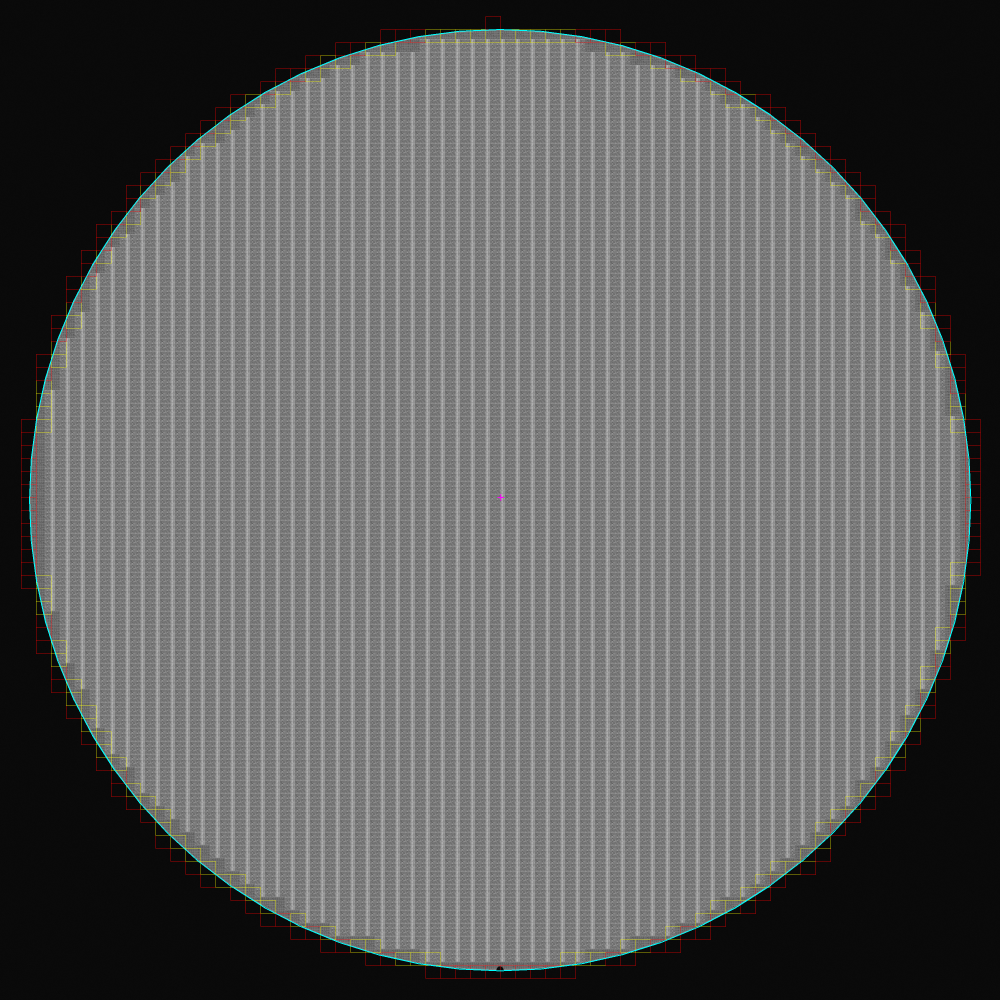
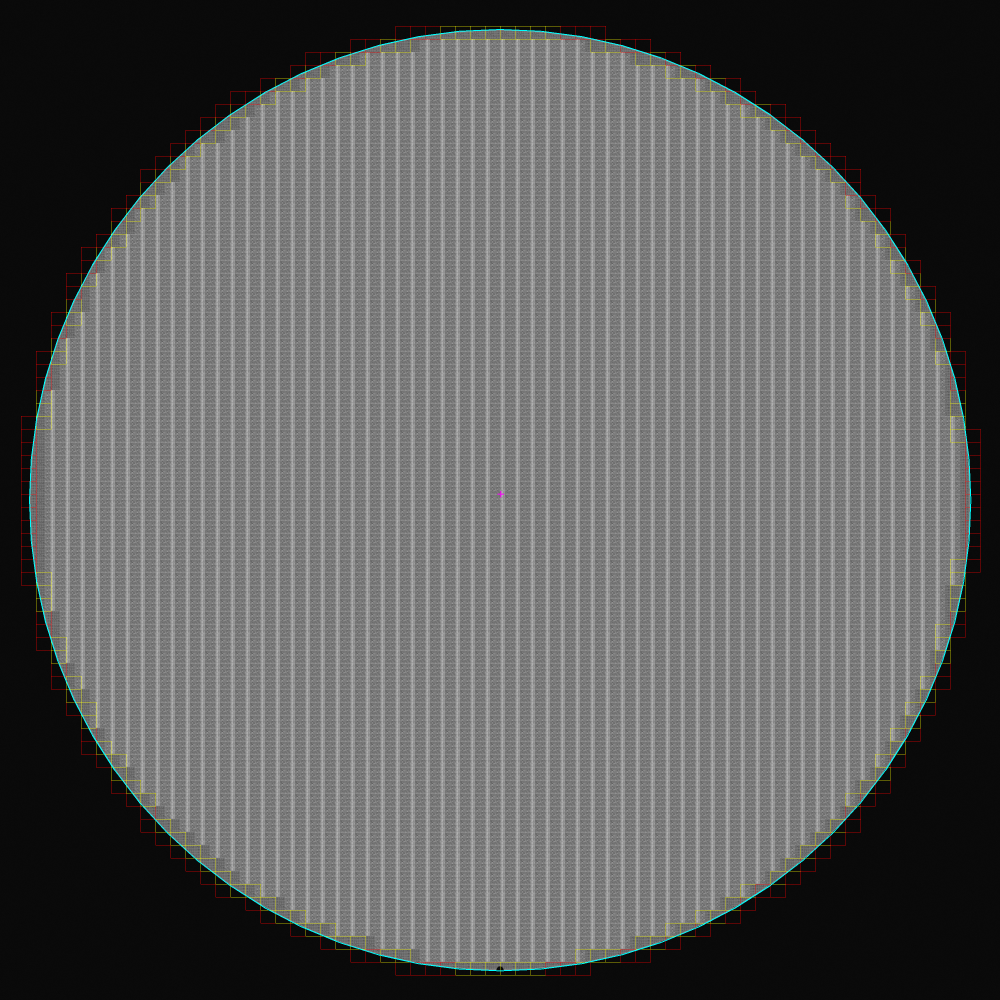
validate thin cross grid against vertical noise

diff --git a/USE_LATEST/use_gray_wafer_die_particle.py b/USE_LATEST/use_gray_wafer_die_particle.py
@@ -565,6 +565,50 @@ def _discard_subpitch_bands(bands: List[Tuple[float, int, int, float]],
     return [band for index, band in enumerate(ordered) if index not in reject]
 
 
+def _periodic_band_support(bands: List[Tuple[float, int, int, float]],
+                           position: float, pitch: float) -> float:
+    """Measure whether a candidate belongs to a repeating grid phase.
+
+    An isolated narrow vertical noise line can pass the width filter.  Unlike a
+    real street, it does not have similarly thin bands at ``position +/- n*pitch``.
+    The returned 0..1 support is therefore used as a second guard after width.
+    """
+    if len(bands) < 2 or pitch <= 0:
+        return 0.0
+    coords = [float(band[0]) for band in bands]
+    lower, upper = min(coords), max(coords)
+    tolerance = max(2.0, float(pitch) * 0.14)
+    matched = 0
+    expected = 0
+    step = 1
+    while position - step * pitch >= lower - tolerance:
+        expected += 1
+        if min(abs(coord - (position - step * pitch)) for coord in coords) <= tolerance:
+            matched += 1
+        step += 1
+    step = 1
+    while position + step * pitch <= upper + tolerance:
+        expected += 1
+        if min(abs(coord - (position + step * pitch)) for coord in coords) <= tolerance:
+            matched += 1
+        step += 1
+    return float(matched / expected) if expected else 0.0
+
+
+def _keep_periodic_candidates(bands: List[Tuple[float, int, int, float]],
+                              pitch: float) -> List[Tuple[float, int, int, float]]:
+    """Keep grid-phase candidates and reject isolated thin noise when possible."""
+    if len(bands) < 3:
+        return bands
+    scored = [(band, _periodic_band_support(bands, band[0], pitch)) for band in bands]
+    best = max(score for _, score in scored)
+    # Do not make a weak image fail solely because periodic support is poor;
+    # only remove candidates when another phase is clearly better.
+    if best < 0.35:
+        return bands
+    return [band for band, score in scored if score >= max(0.35, best * 0.70)]
+
+
 def _select_cross_origin(x_bands: List[Tuple[float, int, int, float]],
                          y_bands: List[Tuple[float, int, int, float]],
                          wafer_cx: float, wafer_cy: float,
@@ -577,8 +621,10 @@ def _select_cross_origin(x_bands: List[Tuple[float, int, int, float]],
     # but distant defect/noise intersection from winning only by projection strength.
     near_x = [band for band in x_bands if abs(band[0] - wafer_cx) <= max(2.0, pitch_x * 1.15)]
     near_y = [band for band in y_bands if abs(band[0] - wafer_cy) <= max(2.0, pitch_y * 1.15)]
-    candidate_x = near_x if near_x else x_bands
-    candidate_y = near_y if near_y else y_bands
+    periodic_x = _keep_periodic_candidates(x_bands, pitch_x)
+    periodic_y = _keep_periodic_candidates(y_bands, pitch_y)
+    candidate_x = [band for band in periodic_x if band in near_x] or periodic_x
+    candidate_y = [band for band in periodic_y if band in near_y] or periodic_y
     # Directional opening can shift a physical 1px crossing by one pixel in each
     # direction. Pick axes independently after width filtering; their geometric
     # intersection is the grid corner and is more stable than exact mask overlap.
@@ -639,14 +685,21 @@ def detect_thin_cross_grid(image: np.ndarray,
         thin_mask, cv2.MORPH_OPEN,
         cv2.getStructuringElement(cv2.MORPH_RECT, (line_length, 1)))
     x_profile = _smooth_projection(vertical.mean(axis=0), 3)
-    # A wide vertical-noise stripe can break a horizontal opening at its crossing.
-    # The row ridge projection keeps the horizontal cross positions continuous.
-    y_profile = _smooth_projection(ridge.mean(axis=1), 3)
+    # Use directional horizontal runs for y positions as well.  The raw ridge
+    # projection also contains fine die texture (often 8-10px apart), which can
+    # falsely become a horizontal cross even though it is not a grid street.
+    y_profile = _smooth_projection(horizontal.mean(axis=1), 3)
     x_bands = _find_projection_bands(x_profile, x0, 1, 0.10, 0.35, 0.1)
     y_bands = _find_projection_bands(y_profile, y0, 1, 0.10, 0.35, 0.1)
     x_bands = [band for band in x_bands if band[2] - band[1] <= thin_width_max]
     # The 3px projection smoothing makes a physical 1-2px horizontal ridge appear up to 6px.
     y_bands = [band for band in y_bands if band[2] - band[1] <= thin_width_max + 2]
+    if len(y_bands) < 2:
+        # Keep a weak-signal fallback, but only when no directional horizontal
+        # streets survived.  Normal cross detection must not use texture rows.
+        y_profile = _smooth_projection(ridge.mean(axis=1), 3)
+        y_bands = _find_projection_bands(y_profile, y0, 1, 0.10, 0.35, 0.1)
+        y_bands = [band for band in y_bands if band[2] - band[1] <= thin_width_max + 2]
     x_bands = _discard_subpitch_bands(x_bands, min_pitch)
     if len(x_bands) < 2 or len(y_bands) < 2:
         raise RuntimeError(

diff --git a/TEST_3000_GRAY/generate_edge_crossing_validation.py b/TEST_3000_GRAY/generate_edge_crossing_validation.py
@@ -18,6 +18,7 @@ SOURCE_JPEG = Path("E:/mirero/Claude_V5") / "\uc6d0\ubcf8" / "Claude_V5" / "TEST
 OUT_DIR = Path(__file__).resolve().parent
 
 sys.path.insert(0, str(REPO_ROOT))
+import USE_LATEST.use_gray_wafer_die_particle as grid_module  # noqa: E402
 from USE_LATEST.use_gray_wafer_die_particle import build_die_map  # noqa: E402
 
 
@@ -42,6 +43,52 @@ def _draw_circle_and_corner(canvas: np.ndarray, dm: object) -> None:
 def _write_preview(path: Path, image: np.ndarray) -> None:
     preview = cv2.resize(image, (1000, 1000), interpolation=cv2.INTER_AREA)
     cv2.imwrite(str(path), preview)
+
+
+def _write_cross_evidence(gray: np.ndarray, dm: object) -> None:
+    """Visualize only the thin candidates used to select the central cross."""
+    roi_half = min(700, max(180, int(dm.wafer_r * 0.30)))
+    roi_x0, roi_x1 = int(dm.wafer_cx - roi_half), int(dm.wafer_cx + roi_half)
+    roi_y0, roi_y1 = int(dm.wafer_cy - roi_half), int(dm.wafer_cy + roi_half)
+    roi = gray[roi_y0:roi_y1, roi_x0:roi_x1]
+    enhanced = cv2.createCLAHE(clipLimit=2.0, tileGridSize=(32, 32)).apply(roi)
+    ridge = cv2.absdiff(enhanced, cv2.GaussianBlur(enhanced, (0, 0), sigmaX=1.25))
+    otsu, _ = cv2.threshold(ridge, 0, 255, cv2.THRESH_BINARY + cv2.THRESH_OTSU)
+    threshold = max(2, int(round(otsu)), int(round(np.percentile(ridge, 82))))
+    thin_mask = (ridge >= threshold).astype(np.uint8) * 255
+    line_length = 9
+    vertical = cv2.morphologyEx(
+        thin_mask, cv2.MORPH_OPEN, cv2.getStructuringElement(cv2.MORPH_RECT, (1, line_length)))
+    horizontal = cv2.morphologyEx(
+        thin_mask, cv2.MORPH_OPEN, cv2.getStructuringElement(cv2.MORPH_RECT, (line_length, 1)))
+    x_profile = grid_module._smooth_projection(vertical.mean(axis=0), 3)
+    y_profile = grid_module._smooth_projection(horizontal.mean(axis=1), 3)
+    x_bands = grid_module._find_projection_bands(x_profile, roi_x0, 1, 0.10, 0.35, 0.1)
+    x_bands = [band for band in x_bands if band[2] - band[1] <= 5]
+    x_bands = grid_module._discard_subpitch_bands(x_bands, 30)
+    y_bands = grid_module._find_projection_bands(y_profile, roi_y0, 1, 0.10, 0.35, 0.1)
+    y_bands = [band for band in y_bands if band[2] - band[1] <= 7]
+
+    half = 180
+    left, top = int(dm.x0 - half), int(dm.y0 - half)
+    right, bottom = int(dm.x0 + half), int(dm.y0 + half)
+    canvas = cv2.cvtColor(gray[top:bottom, left:right], cv2.COLOR_GRAY2BGR)
+    for band in x_bands:
+        x = int(round(band[0]))
+        if left <= x < right:
+            cv2.line(canvas, (x - left, 0), (x - left, canvas.shape[0] - 1), (0, 200, 255), 1)
+    for band in y_bands:
+        y = int(round(band[0]))
+        if top <= y < bottom:
+            cv2.line(canvas, (0, y - top), (canvas.shape[1] - 1, y - top), (0, 200, 255), 1)
+    selected_x, selected_y = int(round(dm.x0)) - left, int(round(dm.y0)) - top
+    cv2.line(canvas, (selected_x, 0), (selected_x, canvas.shape[0] - 1), (255, 255, 0), 2)
+    cv2.line(canvas, (0, selected_y), (canvas.shape[1] - 1, selected_y), (255, 255, 0), 2)
+    cv2.drawMarker(canvas, (selected_x, selected_y), (255, 0, 255), cv2.MARKER_CROSS, 18, 2)
+    canvas = cv2.resize(canvas, (1080, 1080), interpolation=cv2.INTER_NEAREST)
+    cv2.putText(canvas, f"selected cross: ({dm.x0}, {dm.y0})", (20, 40),
+                cv2.FONT_HERSHEY_SIMPLEX, 0.9, (255, 0, 255), 2, cv2.LINE_AA)
+    cv2.imwrite(str(OUT_DIR / "wafer_1_cross_evidence_zoom.png"), canvas)
 
 
 def main() -> None:
@@ -92,6 +139,7 @@ def main() -> None:
     cv2.imwrite(str(OUT_DIR / "wafer_1_edge_gap_diagnostic_3000.png"), diagnostic)
     _write_preview(OUT_DIR / "wafer_1_cross_overlay_preview.png", full)
     _write_preview(OUT_DIR / "wafer_1_edge_gap_diagnostic_preview.png", diagnostic)
+    _write_cross_evidence(gray, dm)
 
     print({
         "wafer": (dm.wafer_cx, dm.wafer_cy, dm.wafer_r),

diff --git a/TEST_3000_GRAY/validate_thin_cross_grid.py b/TEST_3000_GRAY/validate_thin_cross_grid.py
@@ -1,0 +1,55 @@
+"""Regression test: a wide vertical noise stripe must not become a grid cross."""
+
+from pathlib import Path
+import sys
+
+import cv2
+import numpy as np
+
+
+ROOT = Path(__file__).resolve().parents[1]
+sys.path.insert(0, str(ROOT))
+from USE_LATEST.use_gray_wafer_die_particle import detect_thin_cross_grid
+
+
+def main() -> None:
+    height = width = 3000
+    wafer_cx = wafer_cy = 1500
+    wafer_r = 1330
+    expected_pitch_x, expected_pitch_y = 47, 53
+    expected_x0, expected_y0 = 1498, 1490
+
+    yy, xx = np.ogrid[:height, :width]
+    wafer_mask = (xx - wafer_cx) ** 2 + (yy - wafer_cy) ** 2 <= wafer_r ** 2
+    image = np.zeros((height, width), np.uint8)
+    image[wafer_mask] = 45
+    for x in np.arange(expected_x0 - 40 * expected_pitch_x,
+                       expected_x0 + 41 * expected_pitch_x, expected_pitch_x):
+        if 0 <= x < width:
+            image[:, max(0, x - 1):min(width, x + 1)] = 125
+    for y in np.arange(expected_y0 - 40 * expected_pitch_y,
+                       expected_y0 + 41 * expected_pitch_y, expected_pitch_y):
+        if 0 <= y < height:
+            image[max(0, y - 1):min(height, y + 1), :] = 125
+
+    # This stripe is deliberately bright, broad, and close to the center, but
+    # it has no matching phase at +/- pitch.  It must not be the chosen x0.
+    image[:, 1513:1529] = 235
+    noise = np.random.default_rng(20260807).normal(0, 5, (height, width))
+    image = np.clip(image.astype(np.float32) + noise, 0, 255).astype(np.uint8)
+    image[~wafer_mask] = 0
+
+    pitch_x, pitch_y, x0, y0 = detect_thin_cross_grid(
+        image, wafer_cx, wafer_cy, wafer_r, min_pitch=30, max_pitch=70)
+    assert abs(pitch_x - expected_pitch_x) <= 2, (pitch_x, expected_pitch_x)
+    assert abs(pitch_y - expected_pitch_y) <= 2, (pitch_y, expected_pitch_y)
+    assert abs(x0 - expected_x0) <= 3, (x0, expected_x0)
+    assert abs(y0 - expected_y0) <= 3, (y0, expected_y0)
+    print({
+        "expected": (expected_pitch_x, expected_pitch_y, expected_x0, expected_y0),
+        "detected": (round(pitch_x, 3), round(pitch_y, 3), x0, y0),
+    })
+
+
+if __name__ == "__main__":
+    main()

diff --git a/TEST_3000_GRAY/README_KO.md b/TEST_3000_GRAY/README_KO.md
@@ -9,9 +9,11 @@
 | `wafer_1_gray_3000.png` | 3000x3000 1채널 Gray 입력 |
 | `wafer_1_cross_overlay_3000.png` | 전체 Die map. 일반 Die는 초록색, 실제 EDGE는 빨간색 |
 | `wafer_1_edge_gap_diagnostic_3000.png` | EDGE 누락 원인을 확인하는 진단 이미지 |
+| `wafer_1_cross_evidence_zoom.png` | 중심 확대. 노랑은 얇은 십자가 후보, 하늘색/자홍색은 선택한 십자가 |
 | `*_preview.png` | GitHub에서 빠르게 보는 1000px 미리보기 |
 | `generate_edge_crossing_validation.py` | 위 결과를 원본 TEST JPEG에서 다시 생성하는 스크립트 |
 | `validate_edge_circle_geometry.py` | 원-사각형 EDGE 교차 회귀 테스트 |
+| `validate_thin_cross_grid.py` | 넓은 세로 노이즈가 십자가로 선택되지 않는지 확인하는 3000px 회귀 테스트 |
 
 ## 적용 설정
 
@@ -36,16 +38,22 @@ dm = build_die_map(
 | wafer radius | `1412` px |
 | `pitch_x`, `pitch_y` | `44.979`, `39.000` px |
 | corner `(x0, y0)` | `(1502, 1492)` px |
-| partial Die 포함 map Die 수 | `3711` |
-| 실제 원-사각형 교차 EDGE | `271` |
-| 기존 중심점 방식이 찾은 EDGE | `124` |
-| 기존 방식 누락 EDGE | `147` |
+| partial Die 포함 map Die 수 | `3709` |
+| 실제 원-사각형 교차 EDGE | `270` |
+| 기존 중심점 방식이 찾은 EDGE | `137` |
+| 기존 방식 누락 EDGE | `133` |
 
 ![3000px Gray preview](wafer_1_gray_preview.png)
 
 ![전체 Die map overlay](wafer_1_cross_overlay_preview.png)
 
 ![EDGE 누락 진단](wafer_1_edge_gap_diagnostic_preview.png)
+
+![중심 십자가 검출 근거](wafer_1_cross_evidence_zoom.png)
+
+중심 확대 이미지에서 노란색은 폭 제한을 통과한 세로/가로 후보, 하늘색은 선택한 두 축, 자홍색 십자는 최종 교차점이다. 세로 후보는 폭 제한뿐 아니라 같은 `pitch_x` 위상으로 반복되는지도 확인한다. 가로 후보는 내부 질감의 약 9px 반복이 아닌, 가로 방향으로 연속된 39px 간격의 얇은 선을 사용한다.
+
+이번 TEST 이미지의 최종 십자가는 `(1502, 1482)`이며, `pitch_x=44.979`, `pitch_y=39.000`이다. `validate_thin_cross_grid.py`는 16px 폭의 밝은 세로 노이즈를 중심 근처에 일부러 넣어도, 반복 위상이 없는 선을 선택하지 않고 올바른 십자가와 pitch를 찾는지 검사한다.
 
 ## 수정한 판정 로직
 
